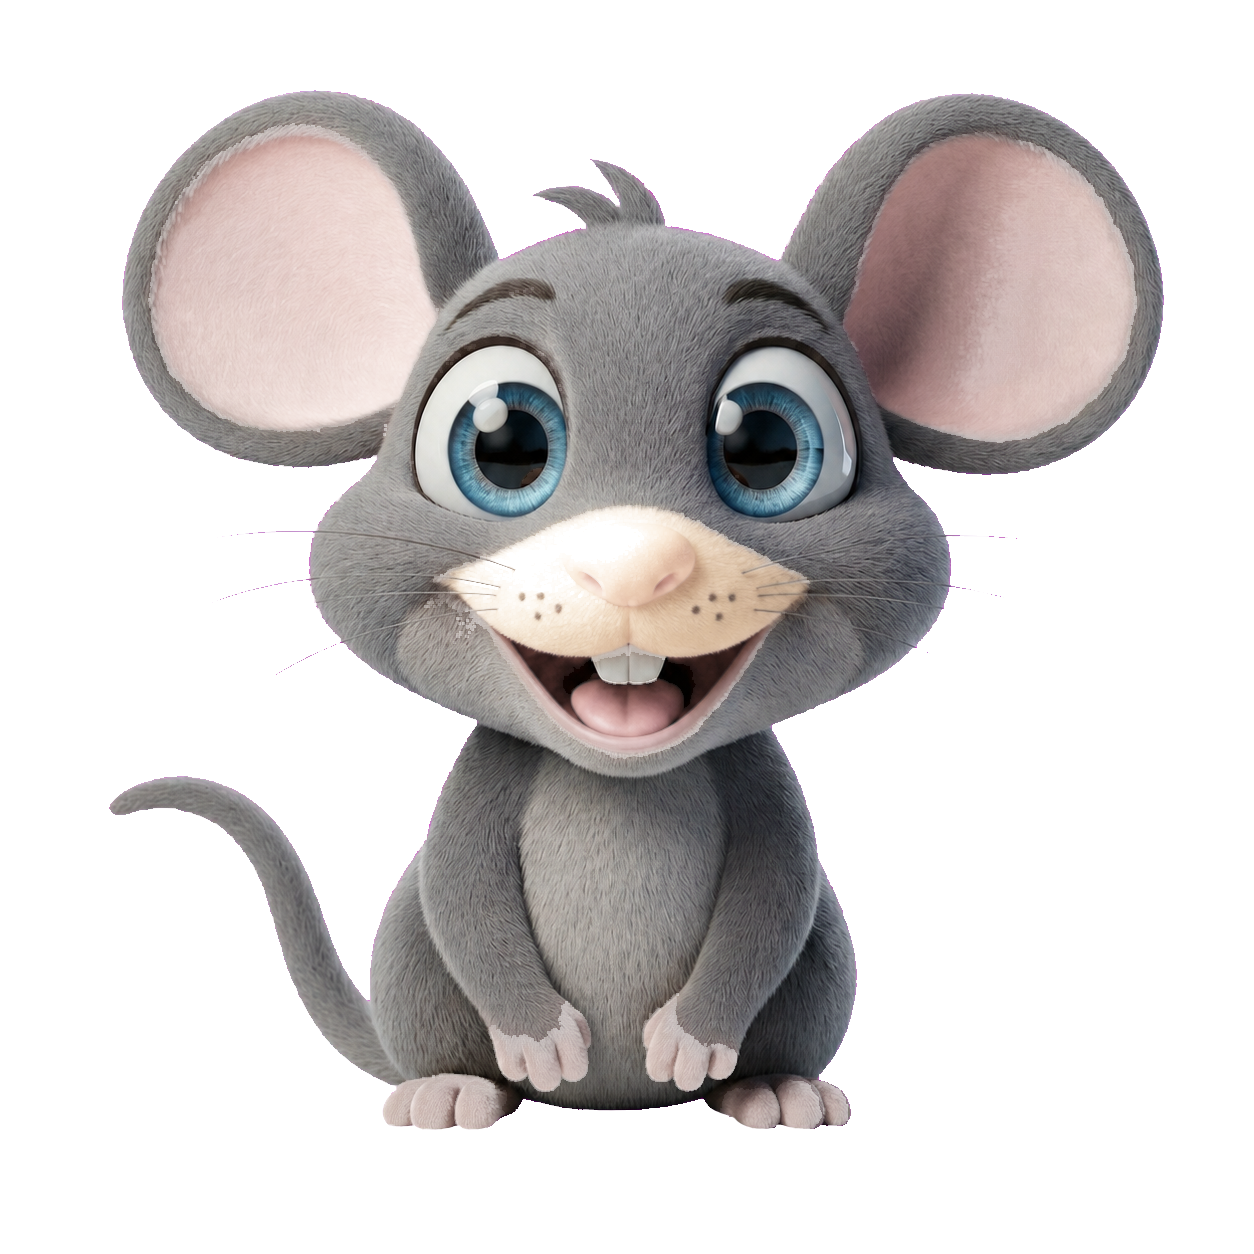
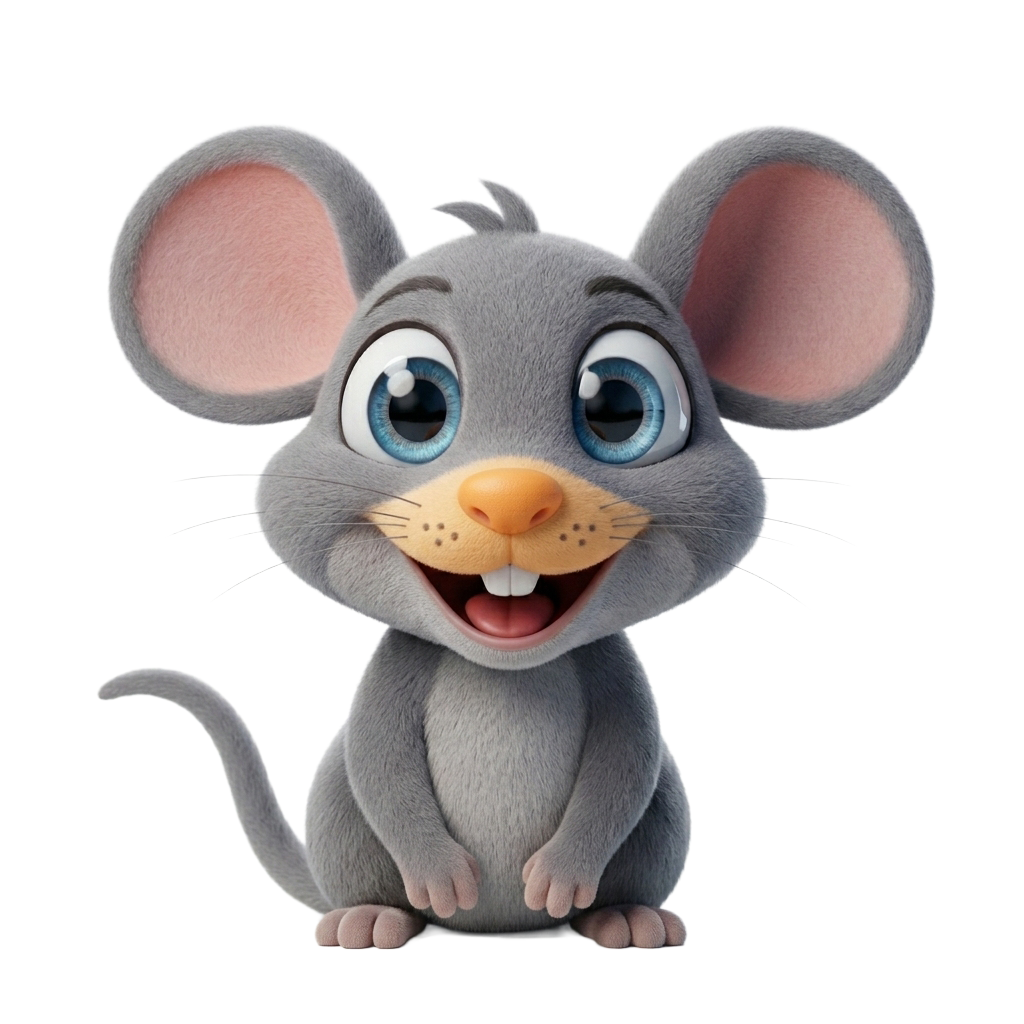
Apply Bab 2 interactive exercise feedback

diff --git a/src/main.js b/src/main.js
@@ -249,7 +249,8 @@ class BootScene extends Phaser.Scene {
       console.error(`Asset failed to load: ${file.src}`);
     });
 
-    this.load.image('cover-panel', '/assets/cover-panel.png');
+    this.load.image('cover-title', '/assets/cover-title.png');
+    this.load.image('cover-start', '/assets/cover-start.png');
     this.load.image('garden', '/assets/garden-4x3.png');
     this.load.image('rat-hole', '/assets/rat-hole.png');
     this.load.image('hammer', '/assets/hammer-cursor.png');
@@ -261,8 +262,6 @@ class BootScene extends Phaser.Scene {
     this.load.image('time-panel', '/assets/time-panel.png');
     this.load.image('instruction-round-1', '/assets/instruction-round-1.png');
     this.load.image('instruction-round-2', '/assets/instruction-round-2.png');
-    this.load.image('round-name-1', '/assets/round-name-1-optimized.png');
-    this.load.image('round-name-2', '/assets/round-name-2-optimized.png');
     this.load.image('hole-instruction-round-1', '/assets/hole-instruction-round-1.png');
     this.load.image('hole-instruction-round-2', '/assets/hole-instruction-round-2.png');
     this.load.image('intro-stage-1-cloud', '/assets/intro-stage-1-cloud.png');
@@ -280,6 +279,8 @@ class BootScene extends Phaser.Scene {
     }
   }
   async create() {
+    this.textures.get('cover-title').add('trimmed', 0, 188, 54, 1546, 990);
+    this.textures.get('cover-start').add('trimmed', 0, 175, 349, 1571, 381);
     this.textures.get('score-panel').add('hud', 0, 220, 176, 1480, 728);
     this.textures.get('time-panel').add('hud', 0, 220, 176, 1480, 728);
     this.textures.get('instruction-round-1').add('hud', 0, 60, 220, 1810, 650);
@@ -339,33 +340,30 @@ class CoverScene extends BaseScene {
       this.scene.start('Intro', { round: 0 });
     };
 
-    const panel = this.add.image(W / 2, IS_MOBILE_PORTRAIT ? H * .5 : 381, 'cover-panel')
-      .setDisplaySize(IS_MOBILE_PORTRAIT ? 762.5 : 900, IS_MOBILE_PORTRAIT ? 508.75 : 600)
-      .setDepth(40)
-      .setInteractive();
-    const coverHeading = addText(this, W / 2, IS_MOBILE_PORTRAIT ? 70 : 107, 'التَّدْرِيبُ التَّفَاعُل', {
-      arabic: true,
-      fontSize: IS_MOBILE_PORTRAIT ? '42.5px' : '42px',
-      color: '#000000'
-    });
-    coverHeading.setPadding(14, 18, 14, 18).setDepth(41);
-    const restingScaleX = panel.scaleX;
-    const restingScaleY = panel.scaleY;
-    panel.on('pointerover', () => this.tweens.add({
-      targets: panel,
-      scaleX: restingScaleX * 1.025,
-      scaleY: restingScaleY * 1.025,
+    this.add.image(W / 2, IS_MOBILE_PORTRAIT ? H * .39 : 315, 'cover-title', 'trimmed')
+      .setDisplaySize(IS_MOBILE_PORTRAIT ? 610 : 620, IS_MOBILE_PORTRAIT ? 391 : 397)
+      .setDepth(40);
+    const startButton = this.add.image(W / 2, IS_MOBILE_PORTRAIT ? H * .69 : 585, 'cover-start', 'trimmed')
+      .setDisplaySize(IS_MOBILE_PORTRAIT ? 470 : 390, IS_MOBILE_PORTRAIT ? 114 : 95)
+      .setDepth(41)
+      .setInteractive({ pixelPerfect: true, alphaTolerance: 16 });
+    const restingScaleX = startButton.scaleX;
+    const restingScaleY = startButton.scaleY;
+    startButton.on('pointerover', () => this.tweens.add({
+      targets: startButton,
+      scaleX: restingScaleX * 1.035,
+      scaleY: restingScaleY * 1.035,
       duration: 110
     }));
-    panel.on('pointerout', () => this.tweens.add({
-      targets: panel,
+    startButton.on('pointerout', () => this.tweens.add({
+      targets: startButton,
       scaleX: restingScaleX,
       scaleY: restingScaleY,
       duration: 110
     }));
-    panel.on('pointerdown', () => this.tweens.add({
-      targets: panel,
-      y: panel.y + 6,
+    startButton.on('pointerdown', () => this.tweens.add({
+      targets: startButton,
+      y: startButton.y + 6,
       duration: 65,
       yoyo: true,
       onComplete: start
@@ -384,13 +382,6 @@ class IntroScene extends BaseScene {
     this.addBackdrop();
     this.addHoles();
     this.add.rectangle(W / 2, H / 2, VIEW_WORLD_W, H, 0xffffff, .45).setDepth(30);
-    const introHeading = addText(this, W / 2, IS_MOBILE_PORTRAIT ? 70 : 107, 'التَّدْرِيبُ التَّفَاعُل', {
-      arabic: true,
-      fontSize: IS_MOBILE_PORTRAIT ? '34px' : '42px',
-      color: '#000000'
-    });
-    introHeading.setPadding(14, 18, 14, 18).setDepth(41);
-
     const introCloudKey = `intro-stage-${this.roundIndex + 1}-cloud`;
     const introCloud = this.add.image(W / 2, IS_MOBILE_PORTRAIT ? H * .5 : 410, introCloudKey)
       .setDisplaySize(IS_MOBILE_PORTRAIT ? 510 : 720, IS_MOBILE_PORTRAIT ? 340 : 480)
@@ -442,7 +433,6 @@ class GameScene extends BaseScene {
     this.addBackdrop();
     this.addHoles();
     const instructionKey = `instruction-round-${this.roundIndex + 1}`;
-    const roundNameKey = `round-name-${this.roundIndex + 1}`;
     const holeInstructionKey = `hole-instruction-round-${this.roundIndex + 1}`;
     const mobileHoleInstructionWidth = 234;
     const mobileHoleInstructionHeight = 256.5;
@@ -456,7 +446,7 @@ class GameScene extends BaseScene {
       )
       .setDepth(4);
     const scorePanelX = IS_MOBILE_PORTRAIT ? 78 : 73;
-    const timePanelX = IS_MOBILE_PORTRAIT ? W - 78 : 227;
+    const timePanelX = W - (IS_MOBILE_PORTRAIT ? 78 : 73);
     const topPanelY = IS_MOBILE_PORTRAIT ? 64 : 75.6;
     this.add.image(scorePanelX, topPanelY, 'score-panel', 'hud')
       .setDisplaySize(IS_MOBILE_PORTRAIT ? 145 : 136, IS_MOBILE_PORTRAIT ? 72 : 67).setDepth(25);
@@ -465,24 +455,10 @@ class GameScene extends BaseScene {
     this.add.image(IS_MOBILE_PORTRAIT ? W / 2 : 500, IS_MOBILE_PORTRAIT ? 222 : 102, instructionKey, 'hud')
       .setDisplaySize(IS_MOBILE_PORTRAIT ? 525 : 390, IS_MOBILE_PORTRAIT ? 188.75 : 140).setDepth(25);
 
-    const roundName = this.add.image(IS_MOBILE_PORTRAIT ? W / 2 : 850, IS_MOBILE_PORTRAIT ? 64 : 76.2, roundNameKey)
-      .setDisplaySize(180, 86).setDepth(25);
-    roundName.texture.setFilter(Phaser.Textures.FilterMode.LINEAR);
-    const roundNameMaskShape = this.make.graphics({ add: false });
-    roundNameMaskShape.fillStyle(0xffffff);
-    roundNameMaskShape.fillRoundedRect(
-      IS_MOBILE_PORTRAIT ? W / 2 - 90 : 760,
-      IS_MOBILE_PORTRAIT ? 21 : 33.2,
-      180,
-      86,
-      12
-    );
-    roundName.setMask(roundNameMaskShape.createGeometryMask());
-
     this.scoreText = addText(this, IS_MOBILE_PORTRAIT ? 106 : 100, IS_MOBILE_PORTRAIT ? 81 : 91.6, '٥ / ٠', {
       arabic: true, fontSize: '21px', color: '#29441c'
     }).setDepth(27);
-    this.timerText = addText(this, IS_MOBILE_PORTRAIT ? W - 51 : 254, IS_MOBILE_PORTRAIT ? 81 : 91.6, '٣٠', {
+    this.timerText = addText(this, W - (IS_MOBILE_PORTRAIT ? 51 : 46), IS_MOBILE_PORTRAIT ? 81 : 91.6, '٣٠', {
       arabic: true, fontSize: '23px', color: '#29441c'
     }).setDepth(27);
     this.input.setDefaultCursor('none');
@@ -526,7 +502,7 @@ class GameScene extends BaseScene {
     const usesImageBubble = Boolean(word[2]);
     const container = this.add.container(spot[0], spot[1] + 90).setDepth(15);
     const dialogContainer = this.add.container(spot[0], spot[1] + 70).setDepth(30);
-    const mouse = this.add.image(0, 0, 'mouse').setDisplaySize(139, 139);
+    const mouse = this.add.image(0, 0, 'mouse').setDisplaySize(139, 139).setAlpha(1);
     const pill = this.add.image(0, usesImageBubble ? -120 : -105, word[2] ?? 'word-dialog')
       .setDisplaySize(usesImageBubble ? 143 : 184, usesImageBubble ? 128 : 101)
       .setVisible(false);
@@ -707,10 +683,10 @@ class ResultsScene extends BaseScene {
     this.add.image(W / 2, resultsPanelY, 'results-panel', 'trimmed')
       .setDisplaySize(IS_MOBILE_PORTRAIT ? 540 : 486, IS_MOBILE_PORTRAIT ? 556 : 500)
       .setDepth(40);
-    this.add.image(W / 2, resultsPanelY + (IS_MOBILE_PORTRAIT ? 20 : 18), `results-stars-${Phaser.Math.Clamp(scores[0], 0, 5)}`, 'trimmed')
+    this.add.image(W / 2, resultsPanelY + (IS_MOBILE_PORTRAIT ? 32 : 30), `results-stars-${Phaser.Math.Clamp(scores[0], 0, 5)}`, 'trimmed')
       .setDisplaySize(IS_MOBILE_PORTRAIT ? 326 : 297, IS_MOBILE_PORTRAIT ? 66 : 60)
       .setDepth(41);
-    this.add.image(W / 2, resultsPanelY + (IS_MOBILE_PORTRAIT ? 190 : 171), `results-stars-${Phaser.Math.Clamp(scores[1], 0, 5)}`, 'trimmed')
+    this.add.image(W / 2, resultsPanelY + (IS_MOBILE_PORTRAIT ? 202 : 183), `results-stars-${Phaser.Math.Clamp(scores[1], 0, 5)}`, 'trimmed')
       .setDisplaySize(IS_MOBILE_PORTRAIT ? 326 : 297, IS_MOBILE_PORTRAIT ? 66 : 60)
       .setDepth(41);
 
